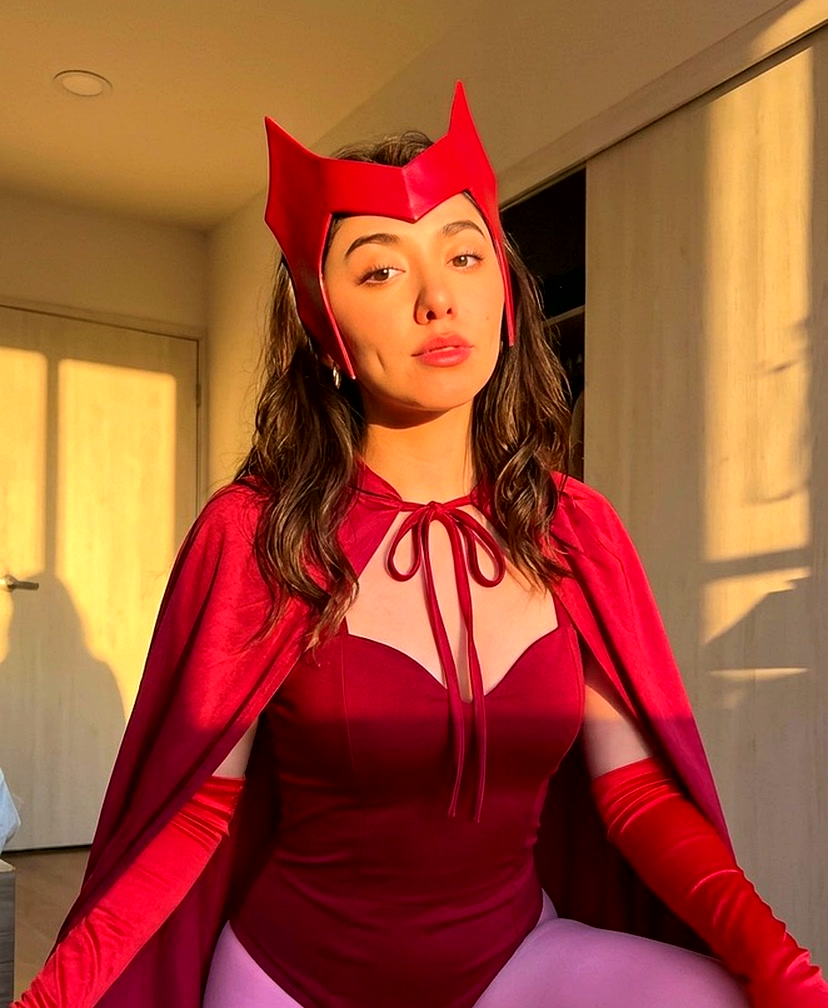
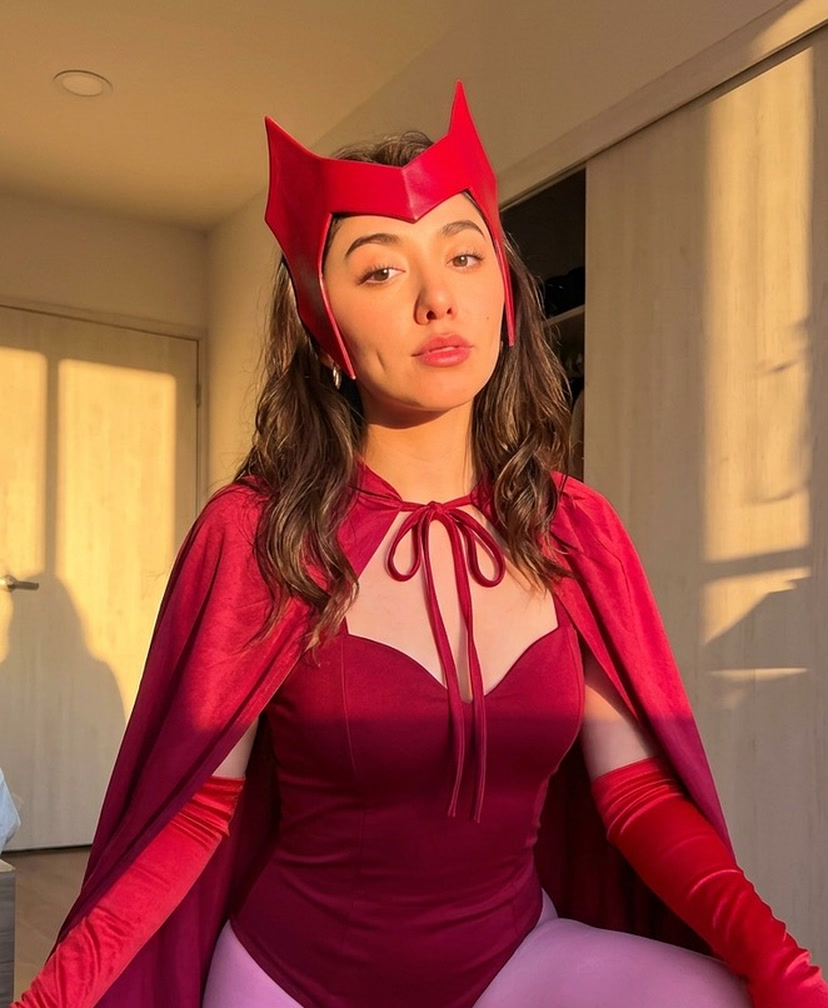
Fix Elizabeth's portraits by only lightly sharpening real photos
The contrast and color lift in scripts/portraits.py suits game art but
overcooked the real photos. Photos listed in PHOTOS now get only a light
sharpen. Ada, Psylocke, Scarlet Witch and Shadowheart were cropped again
along with their figures, and CLAUDE.md and the README describe the
split.

-- ada: some faces need less makeup than the game gives them.

diff --git a/scripts/portraits.py b/scripts/portraits.py
@@ -26,9 +26,12 @@ WIDTH = 828
 HEIGHT = 1008
 FIGURE_WIDTH = 662
 FIGURE_HEIGHT = 1186
-# contrast and color lifted so the portraits survive half block rendering, the sharpening kept
-# light because real pixels show its halos
+# contrast and color lifted so the painted portraits survive half block rendering, the sharpening
+# kept light because real pixels show its halos
 LIFT = "eq=contrast=1.15:saturation=1.25,unsharp=5:5:0.4"
+# photos already carry their own color: the lift turned skin orange and hair into a black block, so
+# they only get a touch of sharpening
+PHOTO_LIFT = "unsharp=3:3:0.25"
 
 # name: (face x, face y, crop height), all as fractions of the original image
 FACES = {
@@ -49,6 +52,15 @@ FACES = {
     "ranni": (0.425, 0.233, 0.32),
     "wesker": (0.50, 0.36, 0.60),
 }
+
+
+# names that are real photos rather than game art
+PHOTOS = {"elizabeth_ada", "elizabeth_psylocke", "elizabeth_scarlet_witch", "elizabeth_shadowheart"}
+
+
+def lift_for(name):
+    """Returns the ffmpeg filters that finish a portrait, gentler for photos than for game art."""
+    return PHOTO_LIFT if name in PHOTOS else LIFT
 
 
 # names whose whole photo is also kept as a figure
@@ -98,12 +110,12 @@ def size_of(path):
     return int(width), int(height)
 
 
-def render(source, box, size, target):
-    """Crops a box out of the original, scales it to size and lifts it into target."""
+def render(source, box, size, target, lift):
+    """Crops a box out of the original, scales it to size and finishes it with lift into target."""
     width, height, left, top = box
     subprocess.run(
         ["ffmpeg", "-loglevel", "error", "-y", "-i", source, "-vf",
-         f"crop={width}:{height}:{left}:{top},scale={size[0]}:{size[1]}:flags=lanczos,{LIFT}",
+         f"crop={width}:{height}:{left}:{top},scale={size[0]}:{size[1]}:flags=lanczos,{lift}",
          "-frames:v", "1", "-q:v", "2", "-pix_fmt", "yuvj444p", target],
         check=True,
     )
@@ -114,11 +126,13 @@ def build(name):
     source = source_of(name)
     size = size_of(source)
     portraits = os.path.join(IMAGES, "portraits")
-    render(source, crop_box(size, FACES[name]), (WIDTH, HEIGHT), os.path.join(portraits, name + ".jpg"))
+    lift = lift_for(name)
+    portrait = os.path.join(portraits, name + ".jpg")
+    render(source, crop_box(size, FACES[name]), (WIDTH, HEIGHT), portrait, lift)
     if name in FIGURES:
         figure = (FIGURE_WIDTH, FIGURE_HEIGHT)
         box = crop_box(size, (0.5, 0.5, 1.0), figure)
-        render(source, box, figure, os.path.join(portraits, name + "_figure.jpg"))
+        render(source, box, figure, os.path.join(portraits, name + "_figure.jpg"), lift)
 
 
 def main():

diff --git a/CLAUDE.md b/CLAUDE.md
@@ -22,7 +22,7 @@ every session in this repo (see the style section below).
 - `lua/core/ecg/`: the health ECG statusline piece (Fine, Caution, Danger) for franchises whose `status` is `ecg`. It lives only in lualine: the HUD and Claude's statusline leave it out, and the same goes for the grace glyph and the runes
 - `lua/core/map/`: `:Map` / `<leader>jm`, folders as rooms, red with errors or TODOs left, blue once cleared, `<CR>` opens the files picker there
 - `lua/core/results/`: counts saves and fixes per run, ranks it S to D on exit (`eldentree_results.json` in state), the HUD shows it in STATUS in the lore's `words` (`last_run`, `rank`, `saves`, `fixes`, required when `ranking` is on)
-- Theme: catppuccin mocha recolored per region of the franchise in use. Color math lives in `lua/core/themes/actions/`, switch with `<leader>jr` or `:Region`. One region per day, the same in every repo and every launch (`of_the_day`, from the date and the franchise). Picking one with `<leader>jr`, `:Region` or the HUD holds until midnight (`eldentree_region` in state keeps the day and the name), and traveling between repos never changes it. `vim.g.eldentree_region` pins one everywhere. Each region has a `character` and a `portrait` in `images/portraits/` (pre-cropped to 828x1008, three times the 276:336 box the layouts use, contrast lifted) that the hub shows when the file exists. A region may also have a `figure`, the whole photo (662x1186, shaped 331:593 like `FIGURE_RATIO` in `core/hud/actions`), which views with `SHOWS_FIGURES` draw instead of the portrait (`image_for`), like the wardrobe's mirror. The originals live in `images/` and `scripts/portraits.py` crops them (`FACES` says where each face sits, `FIGURES` which ones also get a figure). Adding a region means a palette in the lore's `regions.lua`, plus its `weather` and `bosses` entries. Never hard code hex colors in plugin specs, read `require("core.themes").palette()` so they follow the region
+- Theme: catppuccin mocha recolored per region of the franchise in use. Color math lives in `lua/core/themes/actions/`, switch with `<leader>jr` or `:Region`. One region per day, the same in every repo and every launch (`of_the_day`, from the date and the franchise). Picking one with `<leader>jr`, `:Region` or the HUD holds until midnight (`eldentree_region` in state keeps the day and the name), and traveling between repos never changes it. `vim.g.eldentree_region` pins one everywhere. Each region has a `character` and a `portrait` in `images/portraits/` (pre-cropped to 828x1008, three times the 276:336 box the layouts use, game art with contrast and color lifted, the real photos in `PHOTOS` only lightly sharpened) that the hub shows when the file exists. A region may also have a `figure`, the whole photo (662x1186, shaped 331:593 like `FIGURE_RATIO` in `core/hud/actions`), which views with `SHOWS_FIGURES` draw instead of the portrait (`image_for`), like the wardrobe's mirror. The originals live in `images/` and `scripts/portraits.py` crops them (`FACES` says where each face sits, `FIGURES` which ones also get a figure). Adding a region means a palette in the lore's `regions.lua`, plus its `weather` and `bosses` entries. Never hard code hex colors in plugin specs, read `require("core.themes").palette()` so they follow the region
 - Leader: `<Space>` | Local leader: `\`
 - `~/.config/nvim` is a symlink to this repo, so every saved `.lua` file is live immediately
 - LSP uses native `vim.lsp.config` plus mason-lspconfig v2 (`automatic_enable`), servers live in `lua/plugins/lsp.lua`

diff --git a/README.md b/README.md
@@ -225,7 +225,7 @@ Everything works in iTerm. A few extras are worth turning on:
 
 - **Real image portraits.** Ghostty, Kitty and WezTerm speak the kitty graphics protocol, so the HUD shows the portraits as actual pictures instead of chafa's half blocks. The portraits are JPEG, so snacks needs ImageMagick to convert them (`brew install imagemagick`), without it they stay in chafa. Ghostty is the closest to iTerm in feel: `brew install --cask ghostty`.
 
-Portraits in `images/portraits/` are 828x1008 crops of the originals in `images/`, sharp enough for terminals that draw real pixels on a dense screen, with contrast and color lifted so they also survive half block rendering. `python3 scripts/portraits.py` builds them with the face centered, from where `FACES` says it sits in each original, pass names to rebuild only those. A region whose portrait is missing simply shows the HUD without art.
+Portraits in `images/portraits/` are 828x1008 crops of the originals in `images/`, sharp enough for terminals that draw real pixels on a dense screen, with contrast and color lifted on the game art so it also survives half block rendering, while real photos (`PHOTOS`) keep their own color and only get a touch of sharpening. `python3 scripts/portraits.py` builds them with the face centered, from where `FACES` says it sits in each original, pass names to rebuild only those. A region whose portrait is missing simply shows the HUD without art.
 
 ### Sounds
 
